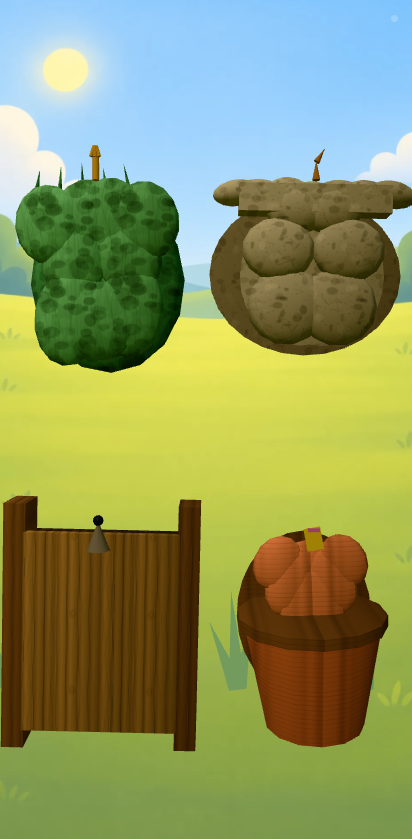
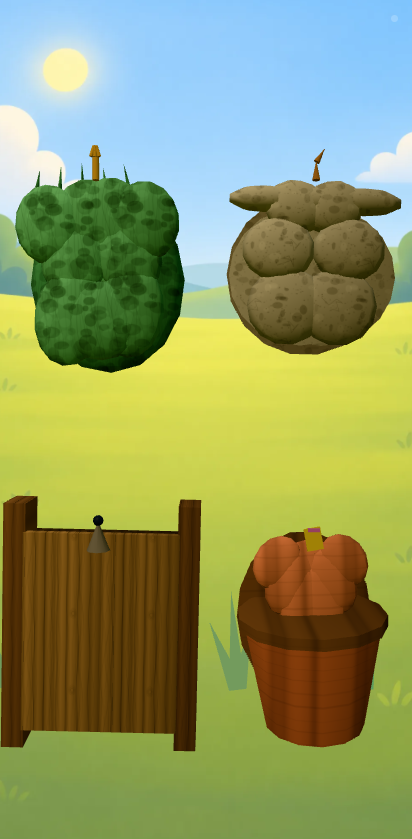
サイクル21〜23: 岩の庇から板をやめ、板目・素焼き・掛け布団を作り直す
判定が2回続けて「次に直すべき1件」に挙げたのが岩の上の板。
芯の板を残して瘤を重ねた版でも「上下の縁が平行な直線の梁のまま。
板の下に直線の影の帯が落ちる」と同じ減点が残ったので、**形ごと外した**。

- 岩の庇: 押しつぶした楕円体5つを結合したものに置き換え、直線を1本も残さない。
  覆う量は変えない（上下の広がりは元の板と同じ、谷はいちばん深いところで
  0.015 しか上がらない）。**横に広げすぎない** —— W×0.98 に rx=W×0.3 で
  並べた版は、岩の塊より 0.57 も外へ張り出して空に翼が生えて見えた。
  庇を塊に替えたぶん端の覆いが減るので、内側の板を W×0.78 → W×0.92 に戻す
  （遮蔽テストが うみ で 8点、のうじょう で 1点の漏れを捕まえた）
- 板目: 1タイルに4枚だと板1枚が画面 26px で、継ぎ目の明るいふちと合わさって
  「波板シャッター」に見えた。2枚にして、明るいふちも弱める
- 素焼き: 等間隔の細い溝 16本／タイル（画面 6.6px 間隔）が
  「旋盤で挽いたプラスチックの鉢」に見えた。太さも間隔も不揃いのぼやけた輪に
- 掛け布団: カーテンと同じ縦の襞を当てていて「塗装した波板」に見えた。
  ふくらみのあるキルトの模様に分ける

描画量を予算内に戻した: 12×8 の球を7つのメッシュで足した版は三角形 +30%・
draw call +12%（上限 +10%）だった。分割を 8×5 に落とし、
**7つを1つのジオメトリに結合**（three の BufferGeometryUtils は examples 側
なので、position/normal/uv だけを繋ぐ短い版を自前で持つ）。

実測: 基準を外れた項目 15 → 14 件（baseline 55）。

Claude-Session: https://claude.ai/code/session_01CKSSptub2R8nw4GNxWzQ6d

diff --git a/src/peekaboo/SpotShapes.ts b/src/peekaboo/SpotShapes.ts
@@ -230,6 +230,34 @@ export function createSpotShape(kind: SpotKind, spotY = 0, spotX = 0): SpotShape
 /** 使い捨て。**毎フレーム走る道ではない**が、作法をそろえておく（§10-3） */
 const _shadeBox = new THREE.Box3();
 const _backBox = new THREE.Box3();
+const _lumpScale = new THREE.Vector3();
+
+/**
+ * 非索引のジオメトリを1つに結合する。
+ *
+ * three の `BufferGeometryUtils` は examples 側にあるので、
+ * **position / normal / uv だけを繋ぐ短い版**を自前で持つ
+ * （依存を増やさない。CLAUDE.md「手続き生成で済むものは自前で作る」）。
+ */
+function mergeGeometries(parts: readonly THREE.BufferGeometry[]): THREE.BufferGeometry {
+  const merged = new THREE.BufferGeometry();
+  for (const name of ['position', 'normal', 'uv'] as const) {
+    const size = name === 'uv' ? 2 : 3;
+    let total = 0;
+    for (const part of parts) total += (part.getAttribute(name)?.count ?? 0) * size;
+    const array = new Float32Array(total);
+    let at = 0;
+    for (const part of parts) {
+      const attribute = part.getAttribute(name);
+      if (!attribute) continue;
+      array.set(attribute.array as Float32Array, at);
+      at += attribute.count * size;
+    }
+    merged.setAttribute(name, new THREE.BufferAttribute(array, size));
+  }
+  for (const part of parts) part.dispose();
+  return merged;
+}
 /** 背板を楕円にする隠れ場所（前面が丸い塊のもの） */
 const ROUND_BACK: ReadonlySet<SpotKind> = new Set<SpotKind>(['bush', 'rock', 'pot', 'egg']);
 
@@ -293,7 +321,7 @@ function fitBackPlates(shape: SpotShape, kind: SpotKind): void {
     const z = back.position.z;
     back.geometry.dispose();
     back.geometry = ROUND_BACK.has(kind)
-      ? new THREE.CircleGeometry(0.5, 28)
+      ? new THREE.CircleGeometry(0.5, 18)
       : new THREE.PlaneGeometry(1, 1);
     // **外接箱ぴったりにする。** 0.94 に詰めた版は、遮蔽のテストが
     // 2件の漏れを捕まえた（2026-09-07）。横に張り出した部品
@@ -844,16 +872,17 @@ function createRock(p: Palette, spotY: number, seed: number): SpotShape {
     // あるので、はみ出したぶんがそのまま空を背に出る。
     // 覆う必要があるのは動物のいちばん広いところ（かに 1.22 ＝半幅 0.61）まで。
     // 左右の板は中央へ 0.16 寄せてあるので、幅 W×0.78 で
-    // 局所 x = ±0.78 まで覆える。
+    // 局所 x = ±0.85 まで覆える（庇を岩の塊に置き換えたら、W×0.78 では
+    // 端が足りずに漏れた）。
     // **高さは詰めないこと。** H×0.95 にしたら、絵を貼った うみ の いわ で
     // 左右の縁の 5点（15×15 の格子）から体が覗いた（実測）
     // **四角い板にしないこと**（2026-09-07）。球より奥（z=0.17）にあるので、
     // はみ出した角がそのまま空を背に長方形として見える。
     // 楕円にすると、丸い塊の裏に収まる（塞ぐ場所は中央なので、
     // 角を落としても隙間はできない ——  遮蔽のテストが見張っている）
-    const slab = new THREE.Mesh(new THREE.CircleGeometry(0.5, 28), stone);
+    const slab = new THREE.Mesh(new THREE.CircleGeometry(0.5, 20), stone);
     slab.name = `rock.slab.${side < 0 ? 'l' : 'r'}`;
-    slab.scale.set(W * 0.78, H * 1.1, 1);
+    slab.scale.set(W * 0.92, H * 1.1, 1);
     slab.position.set(-side * 0.16, -H * 0.26, FRONT_Z - 0.05);
     half.add(slab);
 
@@ -877,36 +906,43 @@ function createRock(p: Palette, spotY: number, seed: number): SpotShape {
   // 見えている割合が 53% まで落ちた（判定は 55%）。
   // 見込み角ぶん（0.10）下げる
   //
-  // **四角い板にしないこと**（2026-09-07）。
-  // W+0.05 の長方形を1枚置いていたら、判定で
-  // 「両端を直角に切り落とした長方形が岩より左右に約30px 突き出し、
-  //  天面の L* の四分位範囲が 4.91（真下の岩の玉は 10.97）で、
-  //  石ではなく板に見える」と5場面すべてで指摘された。
+  // ==========================================================================
+  // **板をやめる**（2026-09-07）。
   //
-  // 覆う役目は**芯の板**が持ったまま（下端を動かさない＝覆う量を変えない）、
-  // その上と両端に岩の瘤を重ねて輪郭を崩す。
+  // はじめは W+0.05 の四角い板1枚だった。判定で5場面すべてに
+  // 「両端を直角に切り落とした長方形が岩より約30px 突き出し、天面の
+  //  L* の四分位範囲が 4.91（真下の岩の玉は 10.97）で、石ではなく板に見える」
+  // と言われた。芯の板を残したまま瘤を重ねた版でも
+  // 「上下の縁が平行な直線の梁のまま。板の下に直線の影の帯が落ちる」と、
+  // **同じ減点がそのまま残った**。
+  //
+  // なので**直線を1本も残さない**。庇そのものを、岩の塊と同じ
+  // 押しつぶした楕円体の集まりで作る。
+  //
+  // 覆う量は変えない: 楕円体の上下の広がりは元の板と同じ（±browH/2）で、
+  // 中心を横に W×0.98 の範囲へ並べ、隣と大きく重ねる。谷はいちばん深いところで
+  // 0.015 しか上がらない（実測）ので、隠している縁の高さは実質そのまま。
+  // ==========================================================================
   const browH = HALF_H * 0.43;
   const browY = HALF_H * 0.785 - browShift(spotY);
-  // **芯の幅は詰めすぎない。** W×0.78 まで細くしたら、遮蔽のテストが
-  // うみ の いわ で 7点、のうじょう の さく で 1点の漏れを捕まえた
-  const brow = plate('rock.brow', W * 0.95, browH, 0.24, stone, 0, browY, FRONT_Z - 0.02);
-  group.add(brow);
-
-  const browTop = browY + browH / 2;
-  // **端まで瘤を置くこと。** 5個で W×0.72 の範囲に置いた版では、
-  // 芯の板の左右の端だけが平らな棒として残っていた（実機の絵で確認）
-  for (let i = 0; i < 7; i++) {
-    const t = i / 6 - 0.5;
-    const lump = new THREE.Mesh(new THREE.SphereGeometry(1, 12, 8), stone);
-    lump.name = `rock.brow.lump.${i}`;
-    const rx = W * (0.13 + rng() * 0.07);
-    const ry = browH * (0.44 + rng() * 0.2);
-    lump.scale.set(rx, ry, 0.13);
-    // **下端は芯の板より下げない。** 下げると出てきた動物に掛かる
-    lump.position.set(t * W * 0.98, browTop - ry * (0.45 + rng() * 0.25), FRONT_Z - 0.02);
-    lump.rotation.z = (rng() - 0.5) * 0.4;
-    group.add(lump);
+  const browParts: THREE.BufferGeometry[] = [];
+  const browAt = new THREE.Matrix4();
+  for (let i = 0; i < 5; i++) {
+    const t = i / 4 - 0.5;
+    const geometry = new THREE.SphereGeometry(1, 8, 5).toNonIndexed();
+    // **横に広げすぎないこと。** W×0.98 の範囲に rx=W×0.3 で並べたら、
+    // 岩の塊（±0.80）より 0.57 も外へ張り出して、空に翼が生えて見えた
+    const rx = W * (0.22 + rng() * 0.05);
+    const ry = (browH / 2) * (0.96 + rng() * 0.08);
+    browAt.makeRotationZ((rng() - 0.5) * 0.22);
+    browAt.scale(_lumpScale.set(rx, ry, 0.13));
+    browAt.setPosition(t * W * 0.62, browY + (rng() - 0.5) * 0.03, FRONT_Z - 0.02);
+    geometry.applyMatrix4(browAt);
+    browParts.push(geometry);
   }
+  const brow = new THREE.Mesh(mergeGeometries(browParts), stone);
+  brow.name = 'rock.brow';
+  group.add(brow);
 
   const openX = W * 0.36;
 

diff --git a/src/peekaboo/SpotTextures.ts b/src/peekaboo/SpotTextures.ts
@@ -133,24 +133,28 @@ type Painter = (ctx: CanvasRenderingContext2D, rng: () => number) => void;
 
 /** 板を横に張った箱。**継ぎ目を強く**（ここが L\* の幅をいちばん作る） */
 const plank: Painter = (ctx, rng) => {
-  const rows = 4;
+  // **細かく刻まないこと。** 1タイル（0.85）に4枚だと板1枚が画面 26px になり、
+  // 継ぎ目の明るいふちと合わさって**波板シャッター**に見えた（判定の指摘）。
+  // 2枚なら 53px で、木箱の板らしい間隔になる
+  const rows = 2;
   const h = SIZE / rows;
   for (let i = 0; i < rows; i++) {
     const y0 = i * h;
     // 板ごとに明るさを変える。同じ板が並ぶと「壁紙」に見える
-    ctx.fillStyle = tone((rng() * 2 - 1) * 0.17);
+    ctx.fillStyle = tone((rng() * 2 - 1) * 0.23);
     ctx.fillRect(0, y0, SIZE, h);
     // 板1枚の中の丸み。上が明るく、下が暗い。**ここが明暗の幅をいちばん作る**
     const round = ctx.createLinearGradient(0, y0, 0, y0 + h);
-    round.addColorStop(0, 'rgba(255,255,255,0.20)');
+    round.addColorStop(0, 'rgba(255,255,255,0.27)');
     round.addColorStop(0.42, 'rgba(255,255,255,0.05)');
-    round.addColorStop(1, 'rgba(0,0,0,0.22)');
+    round.addColorStop(1, 'rgba(0,0,0,0.28)');
     ctx.fillStyle = round;
     ctx.fillRect(0, y0, SIZE, h);
     // 継ぎ目
-    ctx.fillStyle = 'rgba(0,0,0,0.44)';
+    ctx.fillStyle = 'rgba(0,0,0,0.38)';
     ctx.fillRect(0, y0 - 1.5, SIZE, 3);
-    ctx.fillStyle = 'rgba(255,255,255,0.30)';
+    // **明るいふちを強くしない。** 継ぎ目ごとに光る筋が入ると金属に見える
+    ctx.fillStyle = 'rgba(255,255,255,0.13)';
     ctx.fillRect(0, y0 + 1.5, SIZE, 2);
   }
   // 板目
@@ -213,7 +217,7 @@ const fabric: Painter = (ctx, rng) => {
     const w = SIZE / peaks * (0.7 + rng() * 0.8);
     const g = ctx.createLinearGradient(x - w / 2, 0, x + w / 2, 0);
     g.addColorStop(0, 'rgba(255,255,255,0)');
-    g.addColorStop(0.5, `rgba(255,255,255,${(0.22 + rng() * 0.18).toFixed(3)})`);
+    g.addColorStop(0.5, `rgba(255,255,255,${(0.30 + rng() * 0.20).toFixed(3)})`);
     g.addColorStop(1, 'rgba(255,255,255,0)');
     ctx.fillStyle = g;
     for (const dx of [-SIZE, 0, SIZE]) ctx.fillRect(x - w / 2 + dx, 0, w, SIZE);
@@ -236,6 +240,44 @@ const fabric: Painter = (ctx, rng) => {
     ctx.beginPath();
     ctx.moveTo(0, i);
     ctx.lineTo(SIZE, i);
+    ctx.stroke();
+  }
+};
+
+/**
+ * 掛け布団。**カーテンと同じ縦の襞にしない。**
+ * 掛かっている布は縦に落ちるが、掛け布団はふくらむ。
+ * 縦の襞を当てていたら「塗装した波板・樹脂の道具箱」と言われた（判定）。
+ */
+const quilt: Painter = (ctx, rng) => {
+  const cells = 3;
+  for (let gy = -1; gy <= cells; gy++) {
+    for (let gx = -1; gx <= cells; gx++) {
+      const x = ((gx + 0.5 + (rng() - 0.5) * 0.4) * SIZE) / cells;
+      const y = ((gy + 0.5 + (rng() - 0.5) * 0.4) * SIZE) / cells;
+      const r = (SIZE / cells) * (0.45 + rng() * 0.25);
+      const g = ctx.createRadialGradient(x, y, 0, x, y, r);
+      g.addColorStop(0, `rgba(255,255,255,${(0.24 + rng() * 0.16).toFixed(3)})`);
+      g.addColorStop(0.66, 'rgba(255,255,255,0.04)');
+      g.addColorStop(1, 'rgba(0,0,0,0.20)');
+      ctx.fillStyle = g;
+      ctx.beginPath();
+      ctx.arc(x, y, r, 0, Math.PI * 2);
+      ctx.fill();
+    }
+  }
+  // 縫い目。斜めに、ごく薄く
+  ctx.strokeStyle = 'rgba(0,0,0,0.055)';
+  ctx.lineWidth = 1.2;
+  for (let i = -cells; i <= cells * 2; i++) {
+    const at = (i * SIZE) / cells;
+    ctx.beginPath();
+    ctx.moveTo(at, 0);
+    ctx.lineTo(at + SIZE, SIZE);
+    ctx.stroke();
+    ctx.beginPath();
+    ctx.moveTo(at, SIZE);
+    ctx.lineTo(at + SIZE, 0);
     ctx.stroke();
   }
 };
@@ -343,12 +385,18 @@ const water: Painter = (ctx, rng) => {
 
 /** 素焼き。轆轤の輪と、焼きむら */
 const clay: Painter = (ctx, rng) => {
-  for (let i = 0; i < 16; i++) {
-    const y = (i * SIZE) / 16 + rng() * 3;
-    ctx.fillStyle = `rgba(0,0,0,${(0.08 + rng() * 0.09).toFixed(3)})`;
-    for (const dy of [-SIZE, 0, SIZE]) ctx.fillRect(0, y + dy, SIZE, 2.5);
-    ctx.fillStyle = 'rgba(255,255,255,0.14)';
-    for (const dy of [-SIZE, 0, SIZE]) ctx.fillRect(0, y + dy + 2.5, SIZE, 2);
+  // **等間隔の細い溝を刻まないこと。** 16本／タイルだと溝の間隔が画面 6.6px になり、
+  // 「旋盤で挽いたプラスチックの鉢」に見えた（判定の指摘）。
+  // 手びねりの素焼きらしく、太さも間隔も不揃いの、ぼやけた輪にする
+  for (let i = 0; i < 6; i++) {
+    const y = (i * SIZE) / 6 + rng() * 14;
+    const h = 3 + rng() * 7;
+    const g = ctx.createLinearGradient(0, y, 0, y + h);
+    g.addColorStop(0, 'rgba(0,0,0,0)');
+    g.addColorStop(0.5, `rgba(0,0,0,${(0.07 + rng() * 0.07).toFixed(3)})`);
+    g.addColorStop(1, 'rgba(0,0,0,0)');
+    ctx.fillStyle = g;
+    for (const dy of [-SIZE, 0, SIZE]) ctx.fillRect(0, y + dy, SIZE, h);
   }
   // **斑点を置かない**（2026-09-07）。石・葉・殻と同じ楕円の斑点が
   // 全部の隠れ場所に乗って「どれも同じ汚れた板」に見えると判定で言われた。
@@ -380,7 +428,7 @@ const PAINTERS: Record<SpotKind, Painter> = {
   door: wood,
   hollow: wood,
   curtain: fabric,
-  blanket: fabric,
+  blanket: quilt,
   bush: foliage,
   rock: stone,
   water,

diff --git a/docs/visual-log.md b/docs/visual-log.md
@@ -44,6 +44,10 @@
 
 | 20 | 岩の色を灰から砂岩へ | 15 | 11 | 採用 | 背景画との彩度差が -30.6/-27.6/-25.6/-24.1/-23.8 → -18.1/-14.4/-12.2/-11.9/-11.9。どうぶつえん と きょうりゅう は基準内に入った |
 
+| 21 | 岩の庇を「板＋瘤」から**岩の塊だけ**に | 15 | 11 | 採用 | 芯の板を残した版は判定で「上下の縁が平行な直線の梁のまま」と同じ減点が残った。直線を1本も残さない。横に広げすぎると空に翼が生えて見える（W×0.98 → W×0.62）|
+| 22 | 板目を粗く・継ぎ目の光る筋を弱く／素焼きの溝を不揃いに | 16 | 11 | 採用 | 「波板シャッター」「旋盤で挽いたプラスチックの鉢」と言われたところ |
+| 23 | ふとんをキルトの模様に（カーテンと分ける）| 14 | 11 | 採用 | 掛け布団に縦の襞を当てていて「塗装した波板」に見えていた |
+
 ## 保留（5回試して動かなかった）
 
 **V1（輪郭の明度差 p10）と V6（消える輪郭の割合）の6箇所** —
